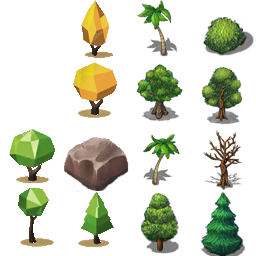
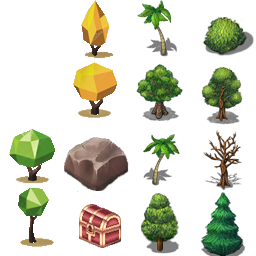
Cofres Con items

Changed region(s): [[0.2812, 0.75, 0.5, 0.9688]]

diff --git a/cliente/src/main/java/juego/JuegoPanel.java b/cliente/src/main/java/juego/JuegoPanel.java
@@ -9,8 +9,10 @@ import java.util.HashMap;
 import javax.swing.JFrame;
 import cliente.Cliente;
 import cliente.EnviadorPosicion;
+import item.ItemEquipo;
 import mapa.Punto;
 import mapagrafico.MapaGrafico;
+import mapagrafico.TileCofre;
 import musica.AudioFilePlayer;
 import personaje.Personaje;
 import tiles.TilePersonajeLocal;
@@ -37,6 +39,7 @@ public class JuegoPanel extends Component implements Runnable{
 	private TilePersonajeLocal pjDibujo;
 	private Camara camara;
 	private HashMap<String, TilePersonajeRemoto> personajes;
+	private HashMap<String, TileCofre > itemEquipo;
 	AudioFilePlayer playerMusic;
 
 	private boolean jugar = true;
@@ -53,8 +56,7 @@ public class JuegoPanel extends Component implements Runnable{
 		camara = new Camara(ANCHO, ALTO);
 		addMouseListener(mouse);
 		pjDibujo = new TilePersonajeLocal(spaw,pj,mouse,camara);  
-		mapa 	 = new MapaGrafico(nombreMapa,pjDibujo,camara, env,personajes);
-		
+		mapa 	 = new MapaGrafico(nombreMapa,pjDibujo,camara, env,personajes,itemEquipo);
 		playerMusic = new AudioFilePlayer ("src/main/resources/sound/mapsong2.ogg",80,true);
 		playerMusic.start();
 		
@@ -86,30 +88,25 @@ public class JuegoPanel extends Component implements Runnable{
 	}
 
 	public void actualizar() {
-		mouse.actualizar();  // Preguntar porque aveces no me lo agarra :c estupido mouse listener de java ?
+		mouse.actualizar();  
 		pjDibujo.actualizar();
 		mapa.actualizar();
-		
+		mouseInteracion();
+	}
+
+
+	private void mouseInteracion() {
 		if(mouse.isInteraccion()){
 			
-			String destino = hayAlguien(mouse.getPosInt());
-			if(destino != null){
-				//enviar mensaje interaccion con servidor
-				cliente.enviarMensajeCombate(destino);
+			String alguien = hayAlguien(mouse.getPosInt());
+			if(alguien != null)
+				cliente.enviarMensajeCombate(alguien);
+			String itemE = hayAlgo(mouse.getPosInt());
+			if(itemE != null)
+				//cliente.pedirItem(itemE);
 				
-				
-				/*
-				padre.add(combat);
-				padre.remove(this);
-				padre.revalidate();
-				repaint();
-				combat.repaint();
-				ejecutando = false;*/
-				
-			}
 			mouse.setInteraccion(false);
 		}
-		
 	}
 
 	private String hayAlguien(Punto posInt) {
@@ -125,6 +122,19 @@ public class JuegoPanel extends Component implements Runnable{
 				return persona;				
 			}
 			
+		}
+		return null;
+	}
+	private String hayAlgo(Punto posInt) {
+		int deltaX = posInt.getX() - camara.getxOffCamara() + camara.getxActualPJ();
+		int deltaY = posInt.getY() - camara.getyOffCamara() + camara.getyActualPJ();
+		
+		
+		for (String itemE : itemEquipo.keySet()) {
+			int x = personajes.get(itemE).getXDestino();
+			int y = personajes.get(itemE).getYDestino();
+			if(x==deltaX	 && y == deltaY)
+				return itemE;							
 		}
 		return null;
 	}

diff --git a/cliente/src/main/java/mapagrafico/MapaGrafico.java b/cliente/src/main/java/mapagrafico/MapaGrafico.java
@@ -12,6 +12,7 @@ import java.util.List;
 import java.util.Scanner;
 import javax.swing.JOptionPane;
 import cliente.EnviadorPosicion;
+import item.ItemEquipo;
 import juego.Camara;
 import mapa.Punto;
 import mapagrafico.dijkstra.AlgoritmoDelTacho;
@@ -47,6 +48,7 @@ public class MapaGrafico {
 	private boolean[][] obstaculos; 
 	private TilePersonajeLocal pj; // cliente
 	private HashMap<String, TilePersonajeRemoto> personajes; // mensaje movimiento: 
+	private HashMap<String, TileCofre > itemEquipo;
 	private int xDestino;
 	private int yDestino;
 	private int xAnterior;
@@ -63,7 +65,7 @@ public class MapaGrafico {
 	private static final Font font = new Font("Copperplate Gothic Light", Font.BOLD, 16);
 
 
-	public MapaGrafico(String nombre,TilePersonajeLocal pj,Camara camara, EnviadorPosicion env, HashMap<String, TilePersonajeRemoto> personajes) {
+	public MapaGrafico(String nombre,TilePersonajeLocal pj,Camara camara, EnviadorPosicion env, HashMap<String, TilePersonajeRemoto> personajes, HashMap<String,TileCofre> itemE) {
 		File path = new File("src\\main\\resources\\mapas\\"+nombre+".map");
 		this.pj = pj;
 		this.env = env;
@@ -76,6 +78,7 @@ public class MapaGrafico {
 		this.nombre = nombre;
 		this.camara = camara;
 		this.personajes = personajes;
+		this.itemEquipo = itemE;
 		Scanner sc = null;
 		try {
 			sc = new Scanner(path);
@@ -110,7 +113,17 @@ public class MapaGrafico {
 				tilesObstaculo[i][j] = new TileObstaculo64x64(i,j,obstaculo);
 			}
 		}
-
+		int cofres = sc.nextInt();
+		String nombreItem;
+		int x;
+		int y;
+		for (int i = 0; i < cofres; i++) {
+			nombreItem = sc.nextLine();
+			x = sc.nextInt();
+			y = sc.nextInt();
+			sprite = sc.nextInt();
+			itemEquipo.put(nombreItem, new TileCofre(x,y,sprite,nombreItem));
+		}
 		sc.close();
 		this.grafoDeMapa = new Grafo( new MatrizBoolean(obstaculos, ancho, alto) );
 		this.camino = new LinkedList<Nodo>();
@@ -280,6 +293,7 @@ public class MapaGrafico {
 			}
 		}
 		dibujarRestoPersonajes(g2d);
+		dibujarCofres(g2d);
 		g2d.drawImage( iluminacion, 0, 0 , null);
 		hud(g2d);
 		termino();
@@ -377,4 +391,11 @@ public class MapaGrafico {
 			pj.mover(g2d);						
 		}
 	}
+	private void dibujarCofres(Graphics2D g2d) {
+		for (TileCofre i : itemEquipo.values()) {
+			i.mover(xDestino + camara.getxOffCamara(),yDestino + camara.getyOffCamara());
+			i.dibujar(g2d);
+		}
+	}
+
 }

diff --git a/cliente/src/main/java/juego/JuegoPanelTestBatalla.java b/cliente/src/main/java/juego/JuegoPanelTestBatalla.java
@@ -39,7 +39,7 @@ public class JuegoPanelTestBatalla extends Component implements Runnable{
 		requestFocus();
 		mouse = new Mouse();
 		addMouseListener(mouse);
-		mapa = new MapaGrafico("map4",pj, null, null,null);
+		mapa = new MapaGrafico("map4",pj, null, null,null,null);
 		
 		pj = new TilePersonajeLocal(new Punto(1,2),new PersonajePrueba("wacho"),mouse, null); //Pone las que quiera papu.
 		thread = new Thread(this);

diff --git a/cliente/src/main/java/mapagrafico/TileCofre.java b/cliente/src/main/java/mapagrafico/TileCofre.java
@@ -1,0 +1,25 @@
+package mapagrafico;
+
+import tiles.TileObstaculo64x64;
+
+public class TileCofre extends TileObstaculo64x64{
+
+
+	private boolean cerrado = true;
+	private String itemE;
+
+	public TileCofre(int x, int y, int sprite, String itemE) {
+		super(x,y,sprite);
+		this.itemE = itemE;
+	} 
+
+	public String abrir() {
+		if( cerrado ){
+			cerrado = false;
+			return itemE;
+		}
+		return null;
+	}
+
+
+}
